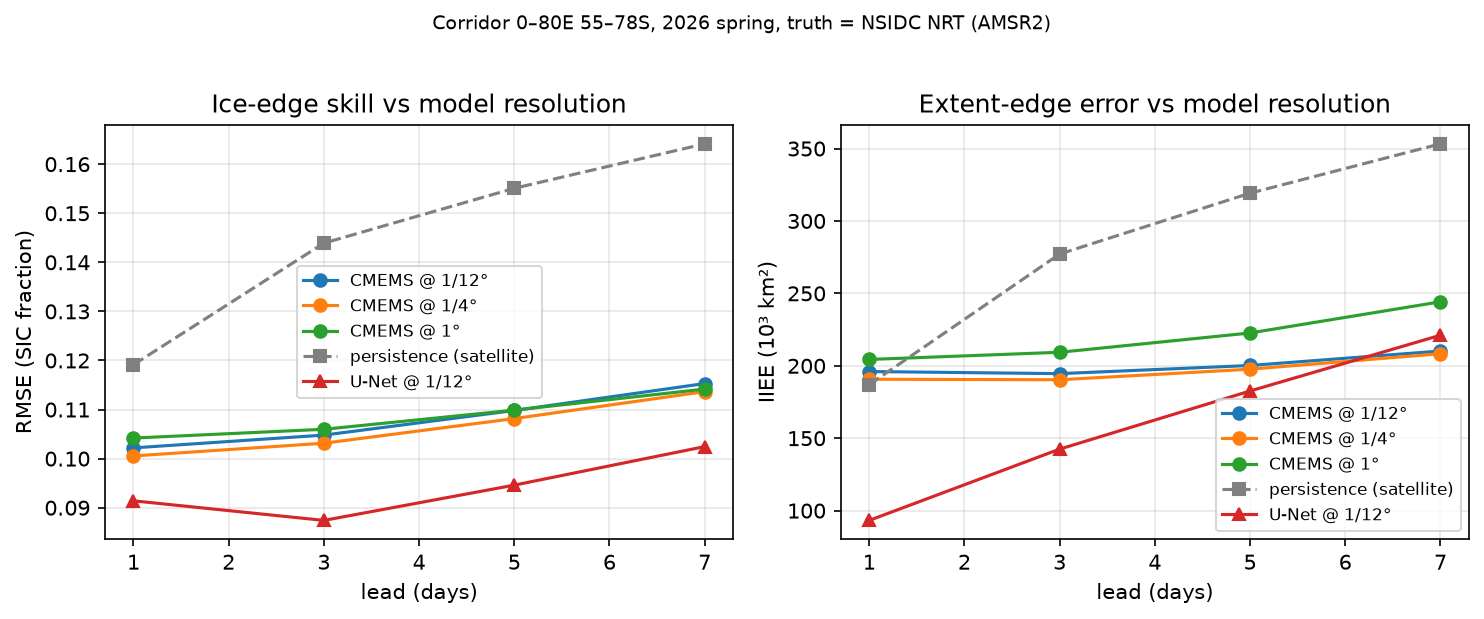
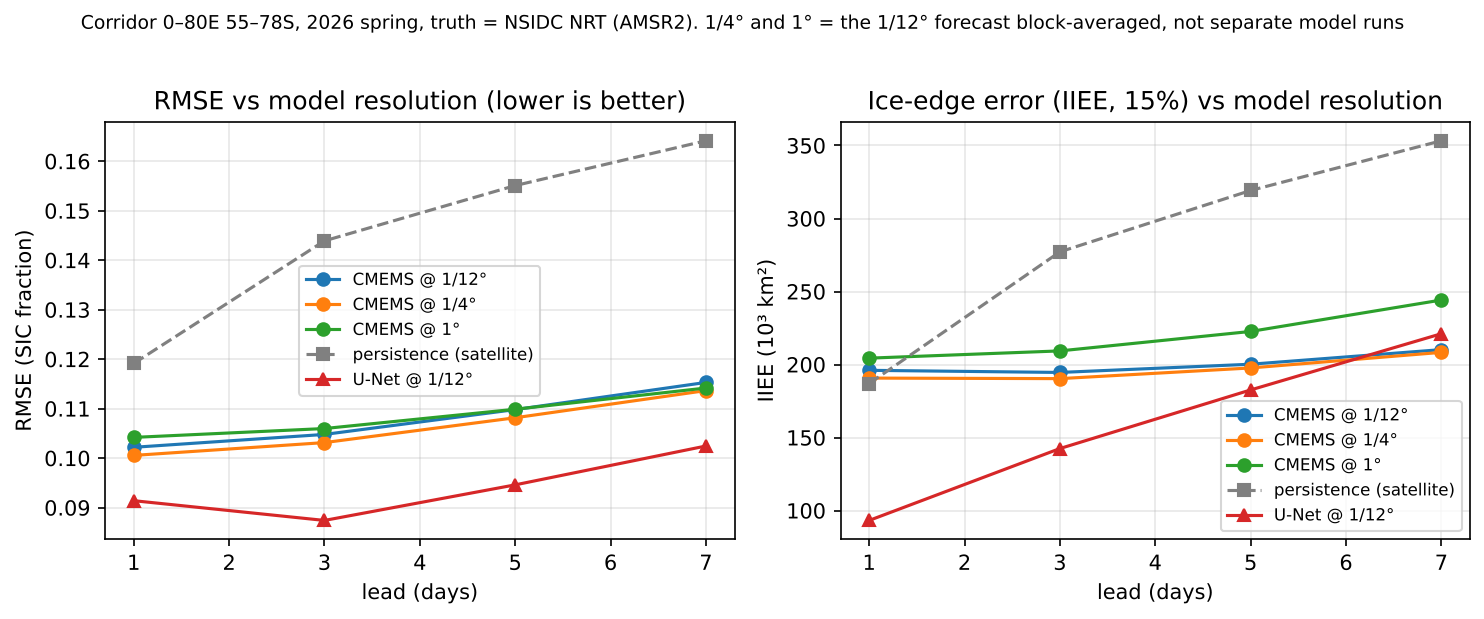
Resolution study: left panel is RMSE, coarse grids are block-averaged
The left title said ice-edge skill but the panel plots RMSE. The figure now
says that 1/4 and 1 degree are the 1/12 degree forecast block-averaged, not
separate model runs. --replot redraws the PNG from the committed JSON.

diff --git a/scripts/resolution_study.py b/scripts/resolution_study.py
@@ -39,7 +39,14 @@ FACTORS = {1: "1/12°", 3: "1/4°", 12: "1°"}
 def main() -> int:
     ap = argparse.ArgumentParser()
     ap.add_argument("--no-model", action="store_true")
+    ap.add_argument("--replot", action="store_true",
+                    help="redraw the PNG from the committed JSON without re-scoring")
     args = ap.parse_args()
+
+    if args.replot:
+        saved = json.loads(OUT_JSON.read_text())["resolutions"]
+        results = {f: saved[label] for f, label in FACTORS.items()}
+        return plot(results, use_model=not args.no_model)
 
     results = run(factors=tuple(FACTORS), use_model=not args.no_model)
 
@@ -58,7 +65,10 @@ def main() -> int:
     }
     OUT_JSON.write_text(json.dumps(payload, indent=2) + "\n")
     print(f"wrote {OUT_JSON}")
+    return plot(results, use_model=not args.no_model)
 
+
+def plot(results: dict, use_model: bool) -> int:
     import matplotlib
     matplotlib.use("Agg")
     import matplotlib.pyplot as plt
@@ -78,7 +88,7 @@ def main() -> int:
               for k in LEADS]
     axes[1].plot(LEADS, pers_i, marker="s", ls="--", color="gray",
                  label="persistence (satellite)")
-    if not args.no_model:
+    if use_model:
         unet = [results[1][f"lead_{k}"]["rmse"].get("unet") for k in LEADS]
         if all(unet):
             axes[0].plot(LEADS, unet, marker="^", color="tab:red",
@@ -89,11 +99,12 @@ def main() -> int:
                          label="U-Net @ 1/12°")
     axes[0].set_xlabel("lead (days)"); axes[0].set_ylabel("RMSE (SIC fraction)")
     axes[1].set_xlabel("lead (days)"); axes[1].set_ylabel("IIEE (10³ km²)")
-    axes[0].set_title("Ice-edge skill vs model resolution")
-    axes[1].set_title("Extent-edge error vs model resolution")
+    axes[0].set_title("RMSE vs model resolution (lower is better)")
+    axes[1].set_title("Ice-edge error (IIEE, 15%) vs model resolution")
     for ax in axes:
         ax.grid(alpha=0.3); ax.legend(fontsize=8)
-    fig.suptitle("Corridor 0–80E 55–78S, 2026 spring, truth = NSIDC NRT (AMSR2)",
+    fig.suptitle("Corridor 0–80E 55–78S, 2026 spring, truth = NSIDC NRT (AMSR2). "
+                 "1/4° and 1° = the 1/12° forecast block-averaged, not separate model runs",
                  fontsize=9, y=1.02)
     fig.tight_layout()
     fig.savefig(OUT_PNG, dpi=150, bbox_inches="tight")

diff --git a/docs/RESOLUTION_STUDY.md b/docs/RESOLUTION_STUDY.md
@@ -45,8 +45,8 @@ The model forecasts earn their place from lead 3 onward.
    +34,000 km² of misplaced edge by day 7. For passage planning the edge is
    the quantity that matters.
 3. **1/12° vs 1/4° is indistinguishable here.** In this corridor, this season,
-   by these two metrics, the step from 1/4° to 1/12° adds nothing persistence
-   and IIEE can detect — an honest null result worth discussing, not hiding.
+   by these two metrics, the step from 1/4° to 1/12° adds nothing RMSE
+   or IIEE can detect — an honest null result worth discussing, not hiding.
 
 ## The caveat that keeps this honest
 
